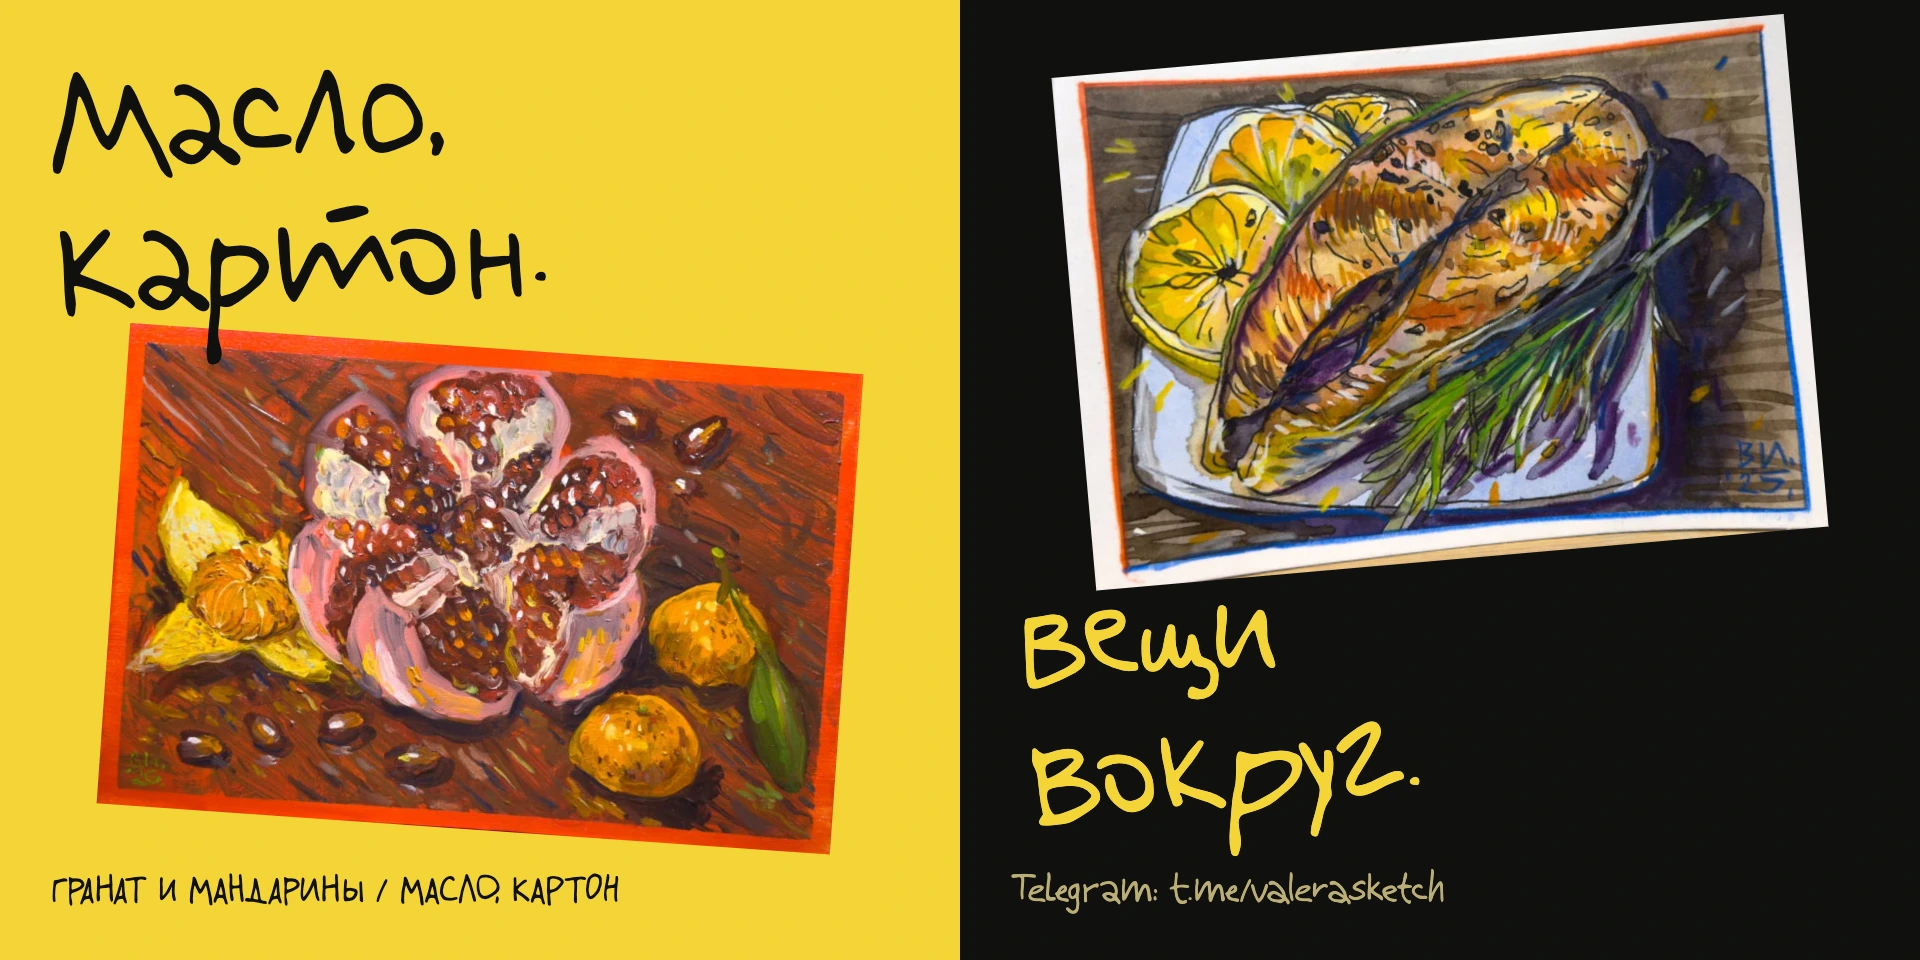
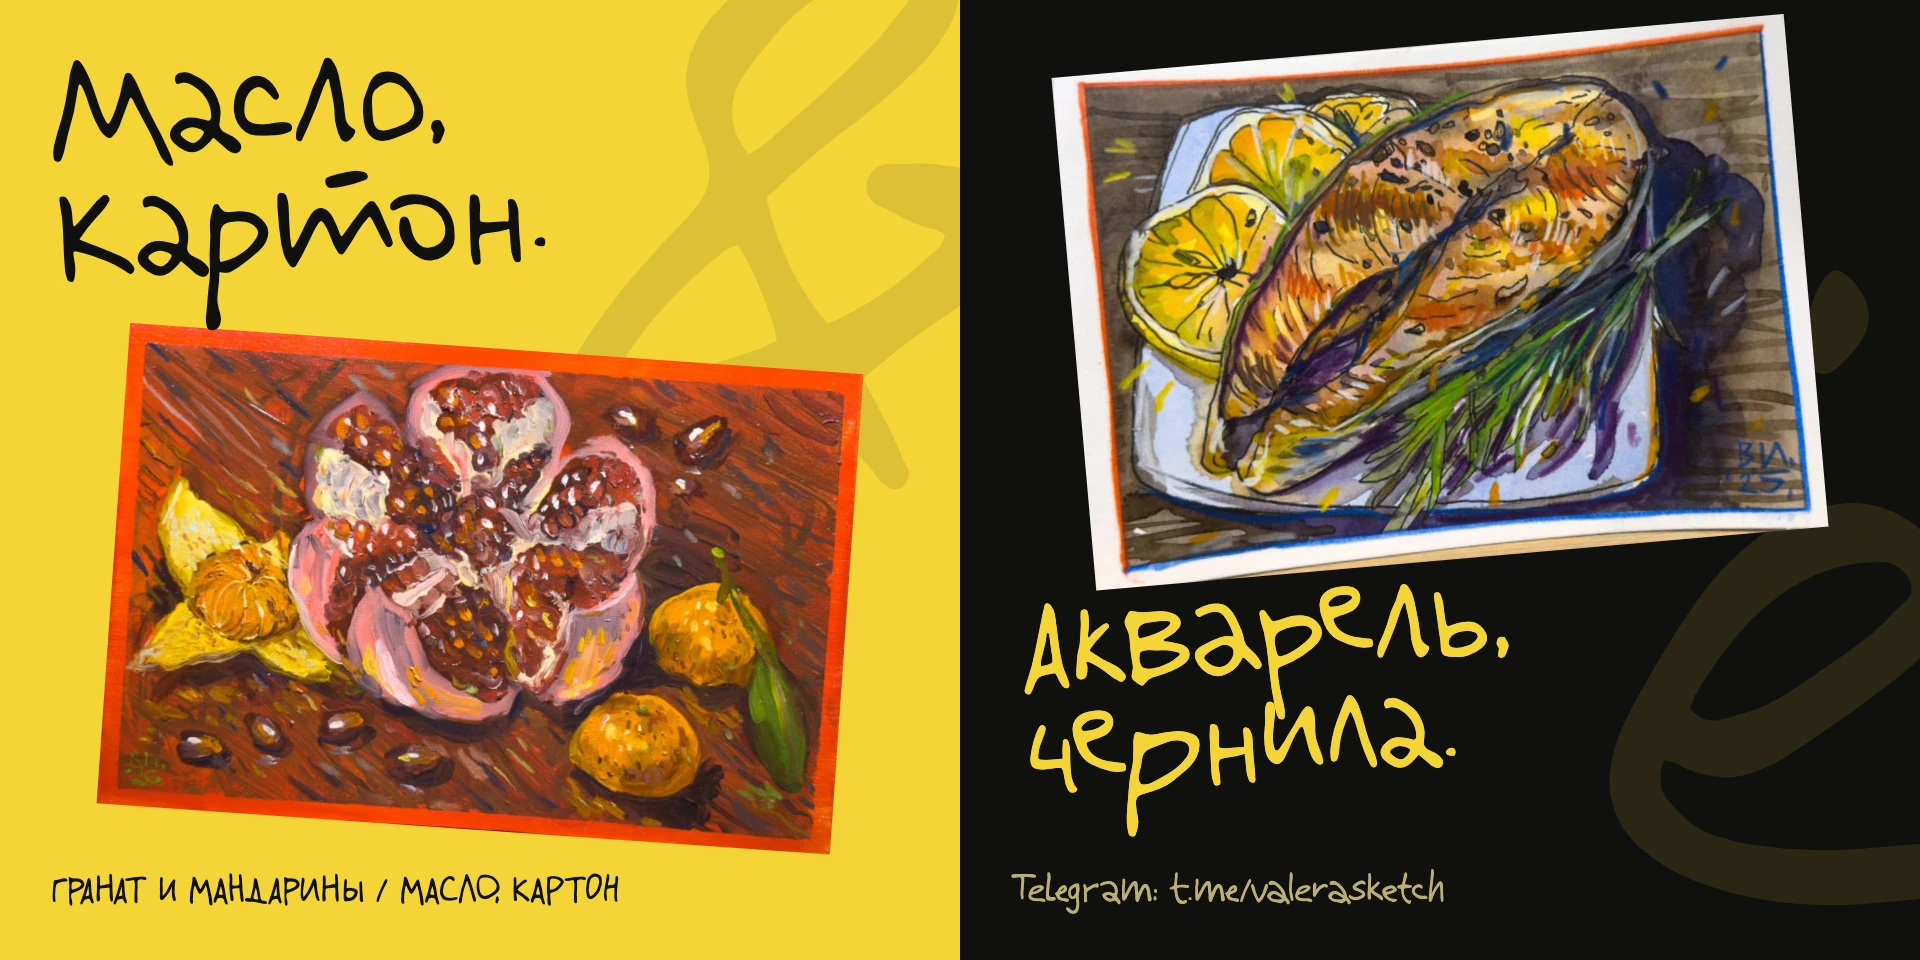
Docs: livelier artwork slide, «Акварель, чернила.»
- fish poster heading «Вещи вокруг.» → «Акварель, чернила.» (as on
  valerasketch.ru), on the README slide and the specimen
- poster headings set tighter (line-height 0.86)
- README slide: large translucent «&» and «ё» from Valera Sans behind
  the paintings
- «масло, картон» kept on one line on narrow screens

diff --git a/specimen/cover.html b/specimen/cover.html
@@ -3,11 +3,11 @@
 <title>Valera Sans — авторские обложки</title>
 <link rel="stylesheet" href="../fonts/web/valera-sans.css">
 <style>
-*{box-sizing:border-box}body{margin:0;background:#11110f;color:#f4d437;font:400 24px/1.25 'Valera Sans',sans-serif;font-kerning:normal;font-feature-settings:'calt' 1;font-synthesis:none}main{width:1280px;height:640px;position:relative;overflow:hidden}.hand{font-family:'Valera Sans',sans-serif;font-kerning:normal;font-feature-settings:'calt' 1;font-synthesis:none;font-weight:400}p{margin:0}.kicker{position:absolute;left:48px;top:32px;font-size:24px;letter-spacing:0}.title{position:absolute;left:40px;top:88px;font-size:161px;line-height:1.05;z-index:2}.title span{display:block}.title span+span{margin-left:90px}.painting{position:absolute;right:52px;top:56px;width:365px;height:auto;transform:rotate(7deg)}.note{position:absolute;left:59px;top:445px;font-size:60px;transform:rotate(-4deg)}.footer{position:absolute;left:48px;bottom:34px;font-size:25px;color:#bcae74}.credit{position:absolute;right:40px;bottom:32px;font-size:24px;color:#bcae74}.flourish{position:absolute;left:646px;top:358px;width:106px;height:118px;transform:rotate(-10deg)}.features{display:none;gap:0}.poster{width:50%;height:640px;position:relative;overflow:hidden}.poster h2{font:400 94px/1.02 'Valera Sans',sans-serif;margin:0;position:absolute;z-index:2}.poster img{position:absolute;display:block;object-fit:contain}.poster .label{position:absolute;bottom:30px;left:34px;font-size:24px;line-height:1.25}.fruit{background:#f4d437;color:#11110f}.fruit h2{top:32px;left:34px;transform:rotate(-3deg)}.fruit img{width:490px;left:75px;top:232px;transform:rotate(4deg)}.fish{background:#11110f;color:#f4d437}.fish h2{top:389px;left:42px;transform:rotate(-4deg);font-size:82px}.fish img{width:490px;left:75px;top:30px;transform:rotate(-5deg)}.fish .label{color:#bcae74}.features:target{display:flex}.features:target~.cover{display:none}
+*{box-sizing:border-box}body{margin:0;background:#11110f;color:#f4d437;font:400 24px/1.25 'Valera Sans',sans-serif;font-kerning:normal;font-feature-settings:'calt' 1;font-synthesis:none}main{width:1280px;height:640px;position:relative;overflow:hidden}.hand{font-family:'Valera Sans',sans-serif;font-kerning:normal;font-feature-settings:'calt' 1;font-synthesis:none;font-weight:400}p{margin:0}.kicker{position:absolute;left:48px;top:32px;font-size:24px;letter-spacing:0}.title{position:absolute;left:40px;top:88px;font-size:161px;line-height:1.05;z-index:2}.title span{display:block}.title span+span{margin-left:90px}.painting{position:absolute;right:52px;top:56px;width:365px;height:auto;transform:rotate(7deg)}.note{position:absolute;left:59px;top:445px;font-size:60px;transform:rotate(-4deg)}.footer{position:absolute;left:48px;bottom:34px;font-size:25px;color:#bcae74}.credit{position:absolute;right:40px;bottom:32px;font-size:24px;color:#bcae74}.flourish{position:absolute;left:646px;top:358px;width:106px;height:118px;transform:rotate(-10deg)}.features{display:none;gap:0}.poster{width:50%;height:640px;position:relative;overflow:hidden}.poster h2{font:400 94px/.86 'Valera Sans',sans-serif;margin:0;position:absolute;z-index:2}.glyph{position:absolute;z-index:0;line-height:1;pointer-events:none;font-family:'Valera Sans',sans-serif;font-feature-settings:'calt' 1}.fruit .glyph{font-size:520px;left:360px;top:-70px;color:#11110f;opacity:.1;transform:rotate(10deg)}.fish .glyph{font-size:560px;left:420px;top:250px;color:#f4d437;opacity:.11;transform:rotate(-8deg)}.poster img,.poster .label{z-index:1}.poster img{position:absolute;display:block;object-fit:contain}.poster .label{position:absolute;bottom:30px;left:34px;font-size:24px;line-height:1.25}.fruit{background:#f4d437;color:#11110f}.fruit h2{top:32px;left:34px;transform:rotate(-3deg)}.fruit img{width:490px;left:75px;top:232px;transform:rotate(4deg)}.fish{background:#11110f;color:#f4d437}.fish h2{top:389px;left:42px;transform:rotate(-4deg);font-size:82px}.fish img{width:490px;left:75px;top:30px;transform:rotate(-5deg)}.fish .label{color:#bcae74}.features:target{display:flex}.features:target~.cover{display:none}
 </style></head><body>
 <main id="examples" class="features" aria-label="Примеры Valera Sans с работами автора">
-<article class="poster fruit"><h2>Масло,<br>картон.</h2><img src="artworks/granat-i-mandariny.webp" alt="Гранат и мандарины — живопись Валерия Исаченкова"><p class="label">ГРАНАТ И МАНДАРИНЫ / МАСЛО, КАРТОН</p></article>
-<article class="poster fish"><img src="artworks/forel.webp" alt="Форель с розмарином и лимоном — графика Валерия Исаченкова"><h2>Вещи<br>вокруг.</h2><p class="label">Telegram: t.me/valerasketch</p></article>
+<article class="poster fruit"><span class="glyph" aria-hidden="true">&amp;</span><h2>Масло,<br>картон.</h2><img src="artworks/granat-i-mandariny.webp" alt="Гранат и мандарины — живопись Валерия Исаченкова"><p class="label">ГРАНАТ И МАНДАРИНЫ / МАСЛО, КАРТОН</p></article>
+<article class="poster fish"><span class="glyph" aria-hidden="true">ё</span><img src="artworks/forel.webp" alt="Форель с розмарином и лимоном — графика Валерия Исаченкова"><h2>Акварель,<br>чернила.</h2><p class="label">Telegram: t.me/valerasketch</p></article>
 </main>
 <main class="cover" aria-label="Valera Sans — рукописный шрифт Валерия Исаченкова">
 <p class="kicker">РУКОПИСНЫЙ ШРИФТ / ВАЛЕРИЙ ИСАЧЕНКОВ</p>

diff --git a/specimen/index.html b/specimen/index.html
@@ -22,7 +22,7 @@ Valera / river / rare
 Краски, бумага, вещи вокруг.</textarea>
 <div class="switches"><label><input id="calt" type="checkbox" checked>Буквы чувствуют соседей</label><label><input id="kern" type="checkbox" checked>Кернинг</label><label><input id="tnum" type="checkbox">Цифры одинаковой ширины</label><label>Трекинг <input id="tracking" type="range" min="-20" max="80" step="5" value="0"><output id="tracking-value">0.000 em</output></label></div>
 <p id="support" class="muted" role="status">Настоящий шрифт. Текст остаётся на твоём устройстве.</p></section>
-<section class="applications" aria-labelledby="applications-heading"><div class="section-head"><h2 id="applications-heading">Почерк в деле</h2><span>Живопись и графика автора + Valera Sans</span></div><div class="poster-pair"><article class="art-poster fruit-poster"><h3 class="hand">Масло,<br>картон.</h3><a href="https://valerasketch.ru/work/granat-i-mandariny/"><img src="artworks/granat-i-mandariny.webp" width="768" height="503" loading="lazy" alt="Гранат и мандарины — живопись Валерия Исаченкова"></a><p>Гранат и мандарины / масло, картон</p></article><article class="art-poster fish-poster"><a href="https://valerasketch.ru/work/forel-s-rozmarinom-i-limonom/"><img src="artworks/forel.webp" width="768" height="538" loading="lazy" alt="Форель с розмарином и лимоном — графика Валерия Исаченкова"></a><h3 class="hand">Вещи<br>вокруг.</h3><p>Форель с розмарином и лимоном / графика</p></article></div><p class="muted">Надписи в этих примерах набраны Valera Sans. <a href="https://t.me/valerasketch">Больше работ в Telegram автора ↗</a></p><p class="muted">Картины показаны как примеры оформления. Для самостоятельного использования их репродукций нужно <a href="https://github.com/azbezd/valera-sans/blob/main/specimen/artworks/README.md">разрешение автора</a>.</p></section>
+<section class="applications" aria-labelledby="applications-heading"><div class="section-head"><h2 id="applications-heading">Почерк в деле</h2><span>Живопись и графика автора + Valera Sans</span></div><div class="poster-pair"><article class="art-poster fruit-poster"><h3 class="hand">Масло,<br>картон.</h3><a href="https://valerasketch.ru/work/granat-i-mandariny/"><img src="artworks/granat-i-mandariny.webp" width="768" height="503" loading="lazy" alt="Гранат и мандарины — живопись Валерия Исаченкова"></a><p>Гранат и мандарины / масло, картон</p></article><article class="art-poster fish-poster"><a href="https://valerasketch.ru/work/forel-s-rozmarinom-i-limonom/"><img src="artworks/forel.webp" width="768" height="538" loading="lazy" alt="Форель с розмарином и лимоном — графика Валерия Исаченкова"></a><h3 class="hand">Акварель,<br>чернила.</h3><p>Форель с розмарином и лимоном / графика</p></article></div><p class="muted">Надписи в этих примерах набраны Valera Sans. <a href="https://t.me/valerasketch">Больше работ в Telegram автора ↗</a></p><p class="muted">Картины показаны как примеры оформления. Для самостоятельного использования их репродукций нужно <a href="https://github.com/azbezd/valera-sans/blob/main/specimen/artworks/README.md">разрешение автора</a>.</p></section>
 <section class="weights-proof"><div class="section-head"><h2>Три начертания</h2><span>Статические начертания</span></div>
 <article><p class="eyebrow">LIGHT / 300</p><p class="hand light">Тихий вечер. Paint & paper.</p></article>
 <article><p class="eyebrow">REGULAR / 400</p><p class="hand regular">Тихий вечер. Paint & paper.</p></article>

diff --git a/specimen/style.css b/specimen/style.css
@@ -12,7 +12,7 @@
 .hero-art figcaption{font-size:11px;line-height:1.5;color:var(--muted);margin-top:30px}
 .applications{margin:60px 0}.poster-pair{display:grid;grid-template-columns:1fr 1fr;gap:0}
 .art-poster{min-width:0;overflow:hidden;display:flex;flex-direction:column;padding:28px 32px 20px}
-.art-poster h3{font-size:clamp(54px,6.6vw,83px);line-height:1.1;font-weight:400;margin:4px 0 22px;transform:rotate(-3deg)}
+.art-poster h3{font-size:clamp(54px,6.6vw,83px);line-height:.86;font-weight:400;margin:4px 0 22px;transform:rotate(-3deg)}
 .art-poster img{width:100%;height:auto;display:block;transform:rotate(3deg)}
 .art-poster a{margin:0 12px 18px;display:block}.art-poster p{font-size:11px;line-height:1.5;margin:10px 0 0}
 .fruit-poster{background:var(--ink);color:var(--paper)}.fish-poster{border:1px solid var(--line)}
